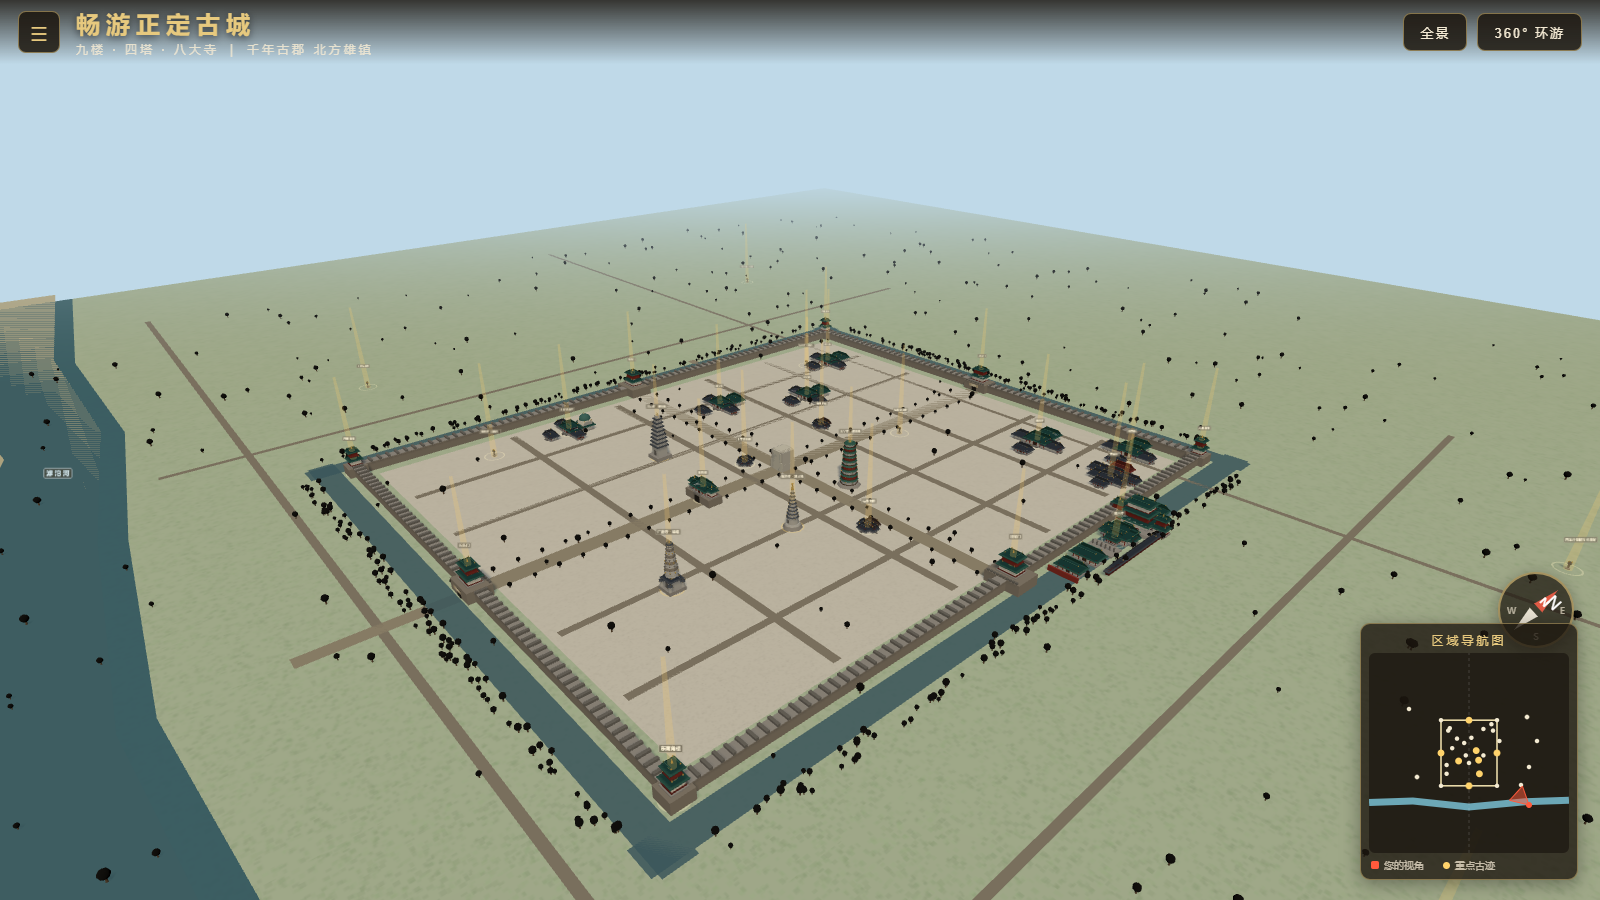
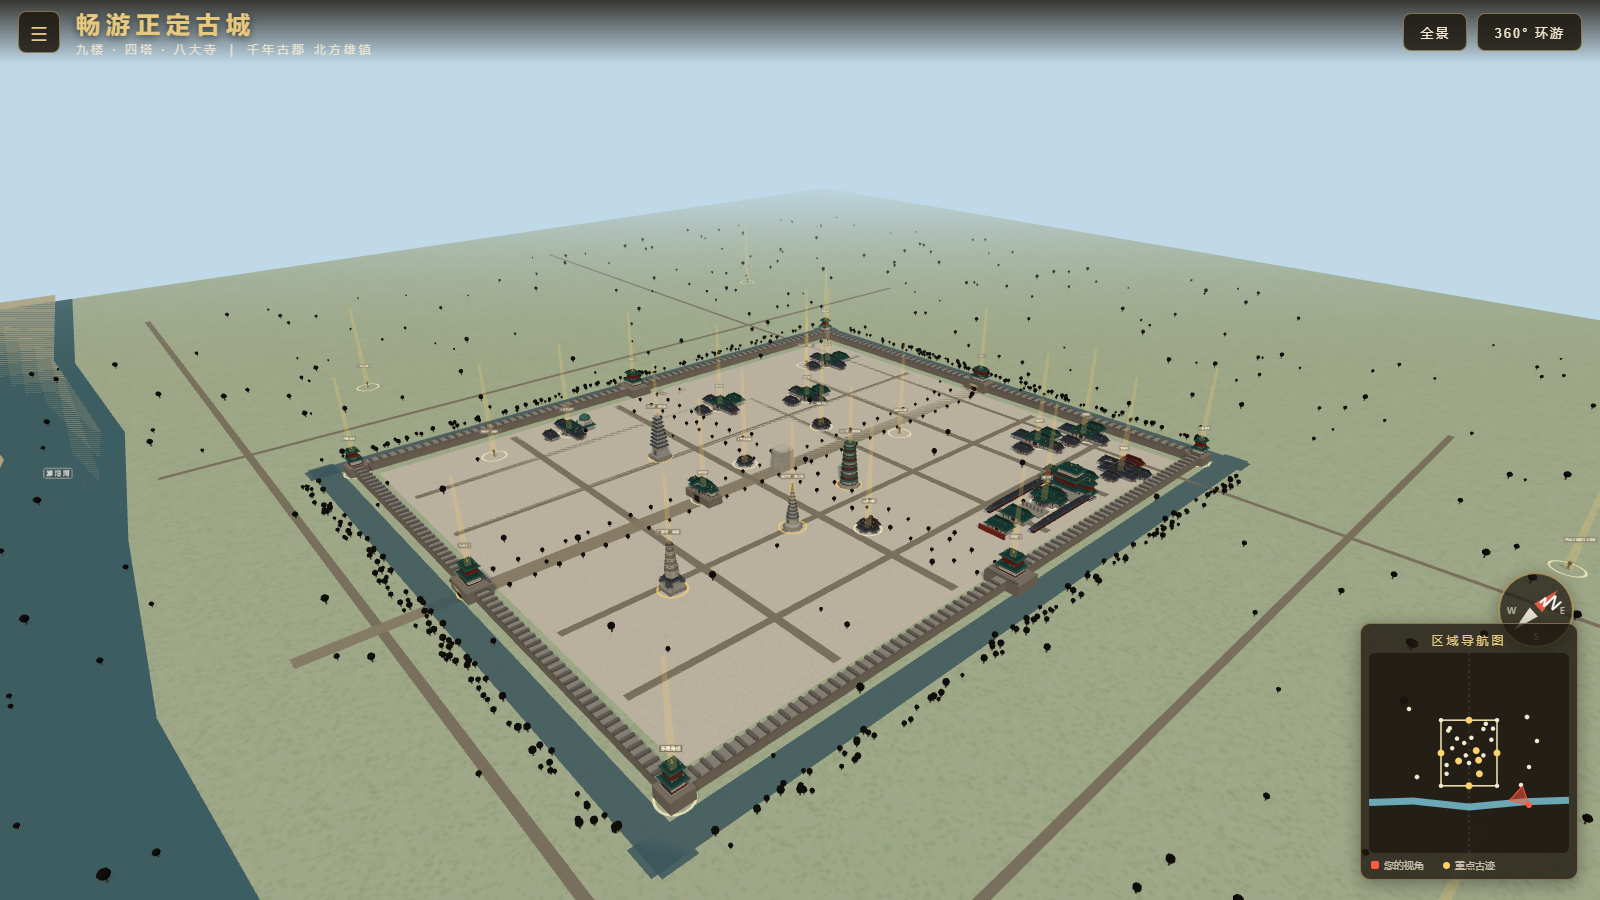
fix: 隆兴寺移入古城内东北隅（迎旭门内）
- 坐标由城外 (760,300) 调整为城内 (560,330)，荣国府、真武庙相应让位
- 街巷遇到寺址自动断开，新增东门内至山门引道
- 重新生成全部效果图并重命名 05
- 更新设计方案方位说明

diff --git a/dist/app.js b/dist/app.js
@@ -32287,8 +32287,8 @@
       name: "\u9686\u5174\u5BFA",
       cat: "temple",
       tag: "\u516B\u5927\u5BFA \xB7 \u4EAC\u5916\u540D\u5239\u4E4B\u9996",
-      x: 760,
-      z: 300,
+      x: 560,
+      z: 330,
       model: "longxing",
       level: "\u56FD\u4FDD",
       intro: "\u9686\u5174\u5BFA\u59CB\u5EFA\u4E8E\u968B\u5F00\u7687\u516D\u5E74\uFF08586\u5E74\uFF09\uFF0C\u5B8B\u521D\u5927\u89C4\u6A21\u6269\u5EFA\uFF0C\u662F\u4E2D\u56FD\u73B0\u5B58\u89C4\u6A21\u6700\u5927\u3001\u4FDD\u5B58\u6700\u5B8C\u6574\u7684\u5B8B\u4EE3\u4F5B\u6559\u5BFA\u9662\u5EFA\u7B51\u7FA4\uFF0C\u88AB\u8A89\u4E3A\u201C\u4EAC\u5916\u540D\u5239\u4E4B\u9996\u201D\u3002\u5BFA\u5185\u6709\u516D\u5904\u6587\u7269\u582A\u79F0\u5168\u56FD\u4E4B\u6700\uFF1A\u9AD8 21.3 \u7C73\u7684\u94DC\u94F8\u5343\u624B\u5343\u773C\u89C2\u97F3\u3001\u88AB\u9C81\u8FC5\u8A89\u4E3A\u201C\u4E1C\u65B9\u7F8E\u795E\u201D\u7684\u5012\u5EA7\u89C2\u97F3\u3001\u4E2D\u56FD\u53E4\u4EE3\u6700\u7CBE\u7F8E\u7684\u94DC\u94F8\u6BD7\u5362\u4F5B\u3001\u5317\u5B8B\u6469\u5C3C\u6BBF\u7B49\u3002"
@@ -32375,7 +32375,7 @@
       cat: "mansion",
       tag: "87\u7248\u300A\u7EA2\u697C\u68A6\u300B\u53D6\u666F\u5730",
       x: 600,
-      z: 560,
+      z: 610,
       model: "mansion",
       intro: "\u8363\u56FD\u5E9C\u662F 1986 \u5E74\u4E3A\u62CD\u6444\u7535\u89C6\u5267\u300A\u7EA2\u697C\u68A6\u300B\uFF0C\u4F9D\u636E\u5C0F\u8BF4\u63CF\u5199\u5E76\u53C2\u7167\u300A\u5927\u6E05\u4F1A\u5178\u300B\u4E25\u683C\u8BBE\u8BA1\u5EFA\u9020\u7684\u4EFF\u53E4\u5EFA\u7B51\u7FA4\uFF0C\u5206\u8363\u56FD\u5E9C\u3001\u5B81\u8363\u8857\u4E24\u90E8\u5206\uFF0C\u662F\u56FD\u5185\u6700\u65E9\u7684\u5F71\u89C6\u5B9E\u666F\u62CD\u6444\u57FA\u5730\u4E4B\u4E00\u3002\u5E9C\u5185\u4EAD\u53F0\u697C\u9601\u3001\u96D5\u6881\u753B\u680B\uFF0C\u73B0\u5E38\u5E74\u4E0A\u6F14\u201C\u5143\u5983\u7701\u4EB2\u201D\u7B49\u5B9E\u666F\u6F14\u51FA\u3002"
     },
@@ -32465,8 +32465,8 @@
       name: "\u771F\u6B66\u5E99",
       cat: "temple",
       tag: "\u9053\u6559\u5E99\u5B87",
-      x: 560,
-      z: 720,
+      x: 420,
+      z: 730,
       model: "temple",
       intro: "\u771F\u6B66\u5E99\u4F9B\u5949\u5317\u65B9\u4E4B\u795E\u771F\u6B66\u5927\u5E1D\uFF0C\u662F\u6B63\u5B9A\u53E4\u57CE\u5317\u90E8\u91CD\u8981\u7684\u9053\u6559\u5E99\u5B87\uFF0C\u5BC4\u6258\u7740\u6C11\u4F17\u7948\u613F\u98CE\u8C03\u96E8\u987A\u3001\u57CE\u6C60\u5B89\u5B81\u7684\u6734\u7D20\u613F\u671B\u3002"
     },
@@ -33544,21 +33544,58 @@
     scene2.add(m);
     return m;
   }
+  var TEMPLE_BLOCK = { x0: 432, x1: 698, z0: 128, z1: 542 };
+  function segRoadH(scene2, x1, x2, z, width, mat, block, y = 0.06) {
+    const segs = [[x1, x2]];
+    if (block && z > block.z0 && z < block.z1) {
+      const b0 = block.x0 - width * 0.5, b1 = block.x1 + width * 0.5;
+      for (let i = segs.length - 1; i >= 0; i--) {
+        const [s, e] = segs[i];
+        if (b1 > s && b0 < e) {
+          segs.splice(i, 1);
+          if (b0 - s > 4)
+            segs.push([s, Math.min(b0, e)]);
+          if (e - b1 > 4)
+            segs.push([Math.max(b1, s), e]);
+        }
+      }
+    }
+    for (const [s, e] of segs)
+      addRoad(scene2, s, z, e, z, width, mat, y);
+  }
+  function segRoadV(scene2, x, z1, z2, width, mat, block, y = 0.06) {
+    const segs = [[z1, z2]];
+    if (block && x > block.x0 && x < block.x1) {
+      const b0 = block.z0 - width * 0.5, b1 = block.z1 + width * 0.5;
+      for (let i = segs.length - 1; i >= 0; i--) {
+        const [s, e] = segs[i];
+        if (b1 > s && b0 < e) {
+          segs.splice(i, 1);
+          if (b0 - s > 4)
+            segs.push([s, Math.min(b0, e)]);
+          if (e - b1 > 4)
+            segs.push([Math.max(b1, s), e]);
+        }
+      }
+    }
+    for (const [s, e] of segs)
+      addRoad(scene2, x, s, x, e, width, mat, y);
+  }
   function buildRoads(scene2) {
     const roadMat = new MeshStandardMaterial({ color: 9273968, roughness: 1 });
     const mainMat = new MeshStandardMaterial({ color: 10260600, roughness: 1 });
     addRoad(scene2, 0, -D + 30, 0, D - 30, 46, mainMat);
-    addRoad(scene2, -W + 30, 0, W - 30, 0, 40, mainMat);
-    addRoad(scene2, -W + 60, -430, W - 60, -430, 20, roadMat);
-    addRoad(scene2, -W + 60, -100, W - 60, -100, 22, roadMat);
-    addRoad(scene2, -W + 60, 230, W - 60, 230, 20, roadMat);
-    addRoad(scene2, -W + 60, 480, W - 60, 480, 20, roadMat);
+    addRoad(scene2, -W + 30, W - 30, 0, 40, mainMat);
+    segRoadH(scene2, -W + 60, W - 60, -430, 20, roadMat, null);
+    segRoadH(scene2, -W + 60, W - 60, -100, 22, roadMat, null);
+    segRoadH(scene2, -W + 60, W - 60, 230, 20, roadMat, TEMPLE_BLOCK);
+    segRoadH(scene2, -W + 60, W - 60, 480, 20, roadMat, TEMPLE_BLOCK);
     for (const x of [-470, -240, 240, 470]) {
-      addRoad(scene2, x, -D + 60, x, D - 60, 18, roadMat);
+      segRoadV(scene2, x, -D + 60, D - 60, 18, roadMat, TEMPLE_BLOCK);
     }
     addRoad(scene2, 0, -D - 30, 0, -1150, 34, mainMat, 0.04);
-    addRoad(scene2, SX(-W - 30), 0, SX(-760), 260, 26, mainMat, 0.04);
-    addRoad(scene2, SX(-700), 300, SX(-820), 300, 26, mainMat, 0.04);
+    addRoad(scene2, SX(-W + 40), 60, SX(-620), 60, 24, mainMat, 0.05);
+    addRoad(scene2, SX(-620), 60, SX(-560), 132, 24, mainMat, 0.05);
     addRoad(scene2, -2600, -1e3, 2600, -1e3, 18, roadMat, 0.03);
     addRoad(scene2, SX(-1e3), -1200, SX(-1e3), 1500, 16, roadMat, 0.03);
     addRoad(scene2, SX(1100), -1200, SX(1100), 1500, 16, roadMat, 0.03);

diff --git a/js/world.js b/js/world.js
@@ -145,26 +145,61 @@ function addRoad(scene, x1, z1, x2, z2, width, mat, y = 0.06) {
   return m;
 }
 
+// 隆兴寺寺址占位（数据坐标），街巷在此区间断开（寺内自有院落甬道）
+const TEMPLE_BLOCK = { x0: 432, x1: 698, z0: 128, z1: 542 };
+
+function segRoadH(scene, x1, x2, z, width, mat, block, y = 0.06) {
+  const segs = [[x1, x2]];
+  if (block && z > block.z0 && z < block.z1) {
+    const b0 = block.x0 - width * 0.5, b1 = block.x1 + width * 0.5;
+    for (let i = segs.length - 1; i >= 0; i--) {
+      const [s, e] = segs[i];
+      if (b1 > s && b0 < e) {
+        segs.splice(i, 1);
+        if (b0 - s > 4) segs.push([s, Math.min(b0, e)]);
+        if (e - b1 > 4) segs.push([Math.max(b1, s), e]);
+      }
+    }
+  }
+  for (const [s, e] of segs) addRoad(scene, s, z, e, z, width, mat, y);
+}
+
+function segRoadV(scene, x, z1, z2, width, mat, block, y = 0.06) {
+  const segs = [[z1, z2]];
+  if (block && x > block.x0 && x < block.x1) {
+    const b0 = block.z0 - width * 0.5, b1 = block.z1 + width * 0.5;
+    for (let i = segs.length - 1; i >= 0; i--) {
+      const [s, e] = segs[i];
+      if (b1 > s && b0 < e) {
+        segs.splice(i, 1);
+        if (b0 - s > 4) segs.push([s, Math.min(b0, e)]);
+        if (e - b1 > 4) segs.push([Math.max(b1, s), e]);
+      }
+    }
+  }
+  for (const [s, e] of segs) addRoad(scene, x, s, x, e, width, mat, y);
+}
+
 function buildRoads(scene) {
   const roadMat = new THREE.MeshStandardMaterial({ color: 0x8d8270, roughness: 1 });
   const mainMat = new THREE.MeshStandardMaterial({ color: 0x9c9078, roughness: 1 });
   // 燕赵南大街 / 北大街（南北中轴）
   addRoad(scene, 0, -D + 30, 0, D - 30, 46, mainMat);
   // 中山路等东西向
-  addRoad(scene, -W + 30, 0, W - 30, 0, 40, mainMat);
-  addRoad(scene, -W + 60, -430, W - 60, -430, 20, roadMat);
-  addRoad(scene, -W + 60, -100, W - 60, -100, 22, roadMat);
-  addRoad(scene, -W + 60, 230, W - 60, 230, 20, roadMat);
-  addRoad(scene, -W + 60, 480, W - 60, 480, 20, roadMat);
+  addRoad(scene, -W + 30, W - 30, 0, 40, mainMat);
+  segRoadH(scene, -W + 60, W - 60, -430, 20, roadMat, null);
+  segRoadH(scene, -W + 60, W - 60, -100, 22, roadMat, null);
+  segRoadH(scene, -W + 60, W - 60, 230, 20, roadMat, TEMPLE_BLOCK);
+  segRoadH(scene, -W + 60, W - 60, 480, 20, roadMat, TEMPLE_BLOCK);
   // 纵向次干道
   for (const x of [-470, -240, 240, 470]) {
-    addRoad(scene, x, -D + 60, x, D - 60, 18, roadMat);
+    segRoadV(scene, x, -D + 60, D - 60, 18, roadMat, TEMPLE_BLOCK);
   }
   // 南关古道（长乐门至滹沱河）
   addRoad(scene, 0, -D - 30, 0, -1150, 34, mainMat, 0.04);
-  // 东门外至隆兴寺
-  addRoad(scene, SX(-W - 30), 0, SX(-760), 260, 26, mainMat, 0.04);
-  addRoad(scene, SX(-700), 300, SX(-820), 300, 26, mainMat, 0.04);
+  // 东门内至隆兴寺引道（迎旭门内 → 寺院山门外）
+  addRoad(scene, SX(-W + 40), 60, SX(-620), 60, 24, mainMat, 0.05);
+  addRoad(scene, SX(-620), 60, SX(-560), 132, 24, mainMat, 0.05);
   // 城外道路网
   addRoad(scene, -2600, -1000, 2600, -1000, 18, roadMat, 0.03);
   addRoad(scene, SX(-1000), -1200, SX(-1000), 1500, 16, roadMat, 0.03);

diff --git a/js/data.js b/js/data.js
@@ -105,7 +105,7 @@ export const POIS = [
     name: '隆兴寺',
     cat: 'temple',
     tag: '八大寺 · 京外名刹之首',
-    x: 760, z: 300,
+    x: 560, z: 330,
     model: 'longxing',
     level: '国保',
     intro:
@@ -192,7 +192,7 @@ export const POIS = [
     name: '荣国府',
     cat: 'mansion',
     tag: '87版《红楼梦》取景地',
-    x: 600, z: 560,
+    x: 600, z: 610,
     model: 'mansion',
     intro:
       '荣国府是 1986 年为拍摄电视剧《红楼梦》，依据小说描写并参照《大清会典》严格设计建造的仿古建筑群，分荣国府、宁荣街两部分，是国内最早的影视实景拍摄基地之一。府内亭台楼阁、雕梁画栋，现常年上演“元妃省亲”等实景演出。'
@@ -281,7 +281,7 @@ export const POIS = [
     name: '真武庙',
     cat: 'temple',
     tag: '道教庙宇',
-    x: 560, z: 720,
+    x: 420, z: 730,
     model: 'temple',
     intro: '真武庙供奉北方之神真武大帝，是正定古城北部重要的道教庙宇，寄托着民众祈愿风调雨顺、城池安宁的朴素愿望。'
   },

diff --git a/docs/第一阶段效果图/README.md b/docs/第一阶段效果图/README.md
@@ -33,8 +33,8 @@
 
 | | |
 | --- | --- |
-| ![隆兴寺全景（东门外，京外名刹之首）](05-隆兴寺全景（东门外）.png) | ![隆兴寺大悲阁与十字抱厦摩尼殿](06-隆兴寺大悲阁与摩尼殿.png) |
-| 隆兴寺全景（东门外，京外名刹之首） | 隆兴寺大悲阁与十字抱厦摩尼殿 |
+| ![隆兴寺全景（城内东北隅，京外名刹之首）](05-隆兴寺全景（古城东北隅）.png) | ![隆兴寺大悲阁与十字抱厦摩尼殿](06-隆兴寺大悲阁与摩尼殿.png) |
+| 隆兴寺全景（城内东北隅，京外名刹之首） | 隆兴寺大悲阁与十字抱厦摩尼殿 |
 | ![荣国府](12-荣国府.png) | |
 | 荣国府（87 版《红楼梦》取景地） | |
 

diff --git a/docs/设计方案.md b/docs/设计方案.md
@@ -72,7 +72,7 @@ scene.position = (SX(poi.x), poi.z)
 小地图与指南针同样在"数据方位坐标"中计算，再经同一映射换算，保证：
 
 - 滹沱河在画面远方（南）；
-- 隆兴寺在城东（画面右）；
+- 隆兴寺在城内东北隅、迎旭门（东门）内（画面右上）；
 - 开元寺在城西（画面左）；
 - 指南针红色 N 针始终指向真实北方。
 
